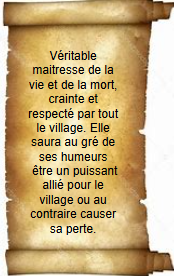
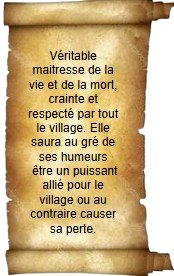
Amélioration images

diff --git a/src/app/carte/mock-cartes-list.ts b/src/app/carte/mock-cartes-list.ts
@@ -234,7 +234,7 @@ export const CARTES: Carte[] = [
     {
         id: 16,
         nom: "L'Institutrice",
-        illustration: "institutrice.png",
+        illustration: "institutrice.jpeg",
         imageCarte:  "l_ecole.png",
         camps: null,
         typesPouvoir: [TYPESDEPOUVOIR[4]],
